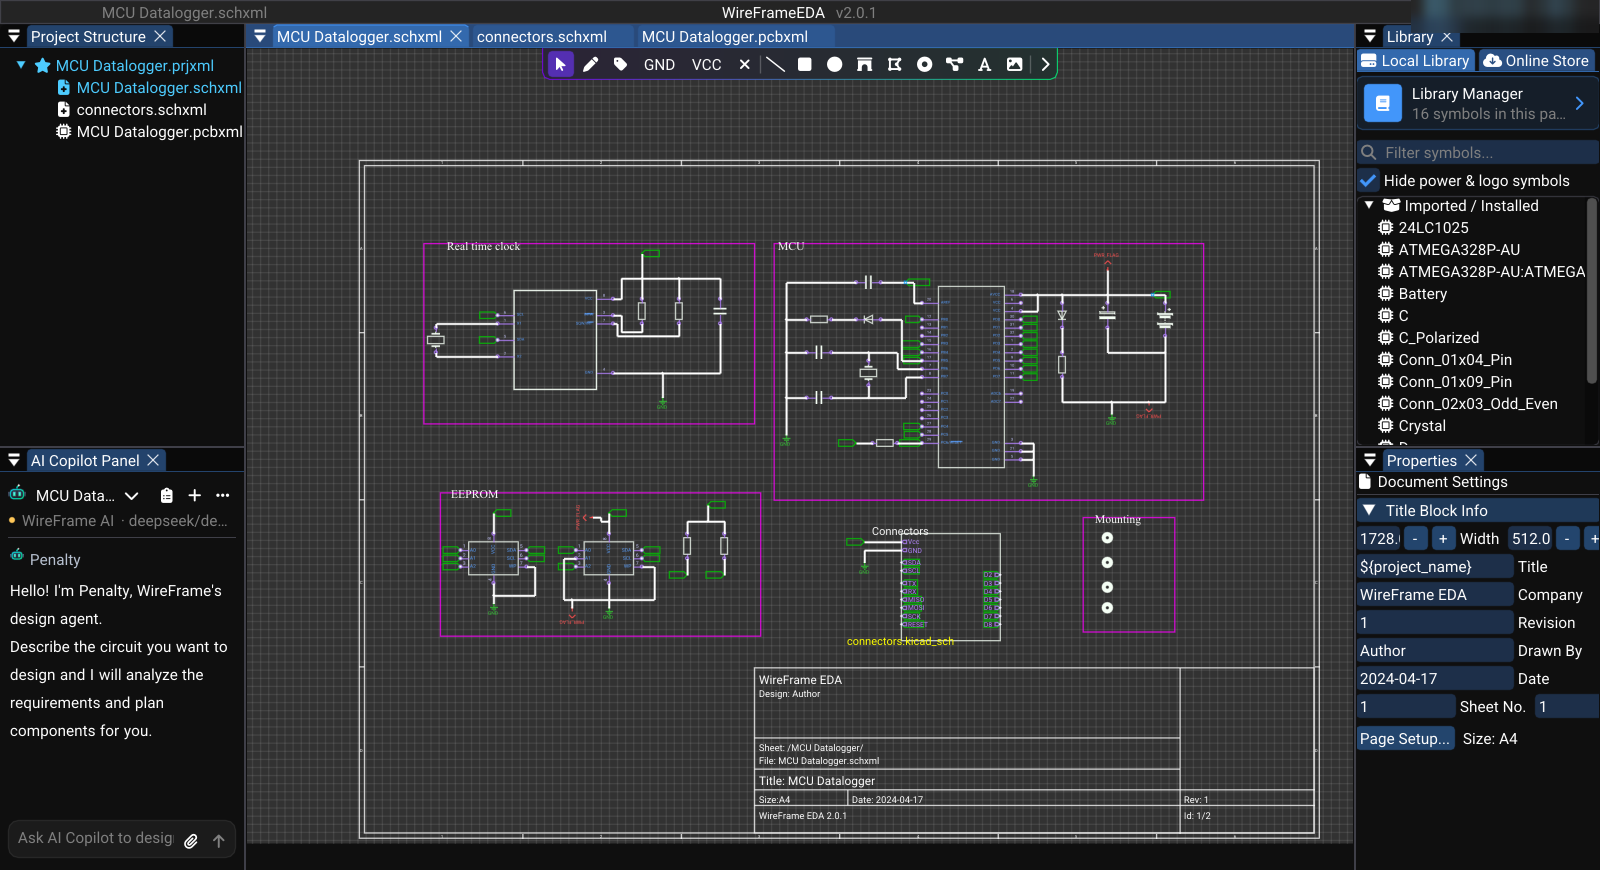
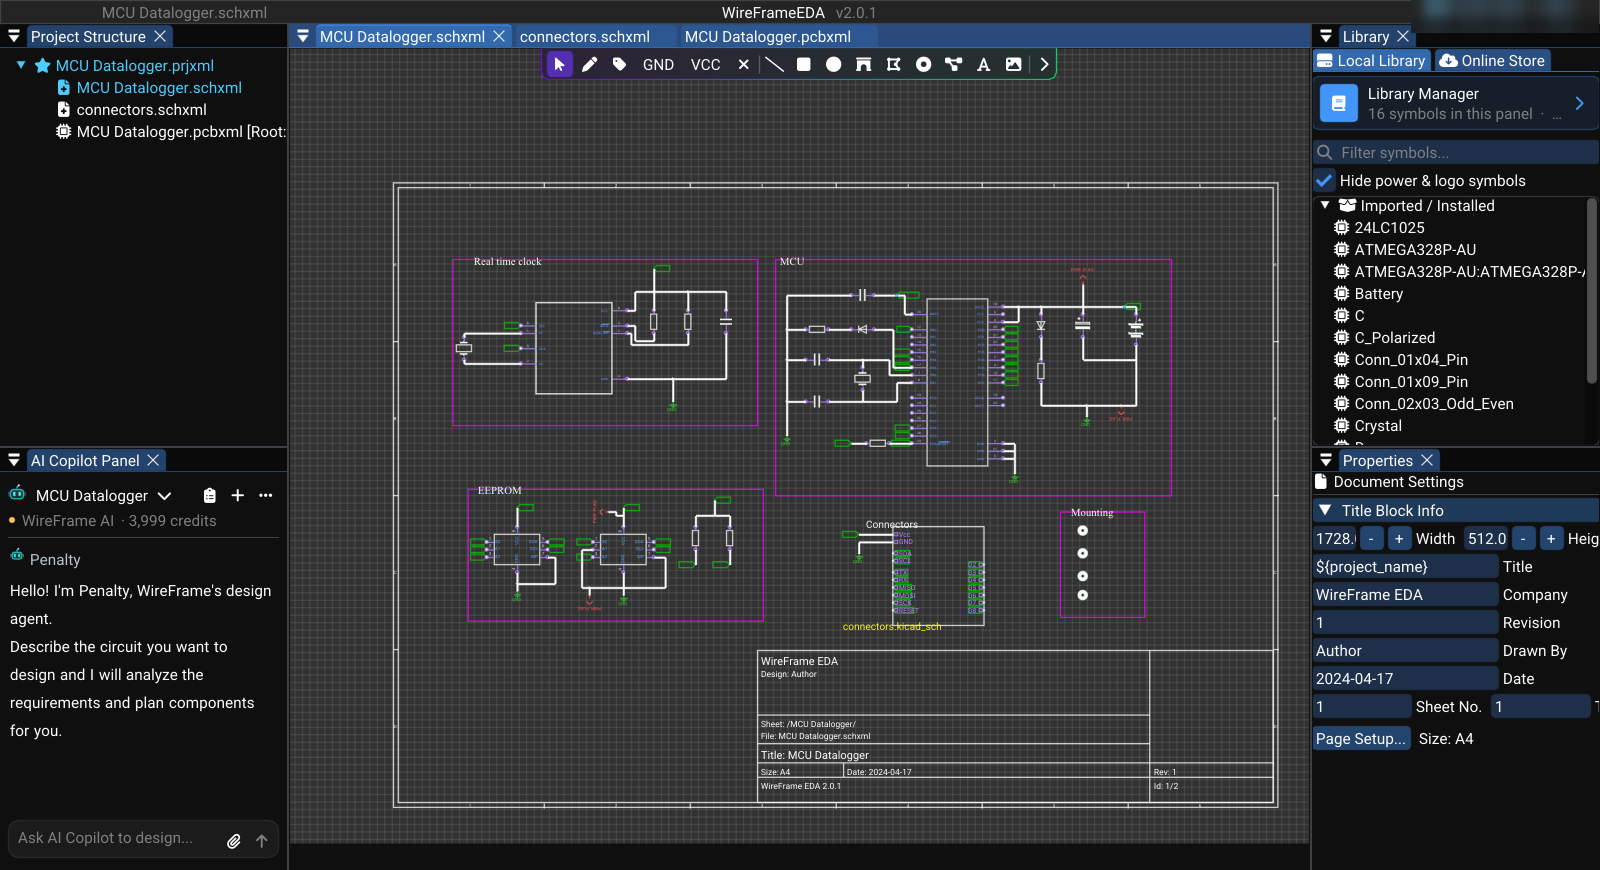
docs: the schematic workspace re-shot on 2.0.1 with the credit header — WireFrame AI and the credit left, no model
First slot of the re-shoot (reshoot-2.0.1.sh docs); the account label is blurred
by doc_builder/redact.py.

diff --git a/docs/schematic/index.md b/docs/schematic/index.md
@@ -49,7 +49,7 @@ setup:
     y: 12
 brief_sha256: 4150fafce92026e0
 -->
-<!-- wf:out id=schematic-workspace sha=840490841eca -->
+<!-- wf:out id=schematic-workspace sha=7c7ef88c15ad -->
 ![The schematic editor on the KLP4e datalogger: canvas, toolbar, Library and Properties](../assets/wf/docs/schematic/index/schematic-workspace.png)
 <!-- /wf:out -->
 
